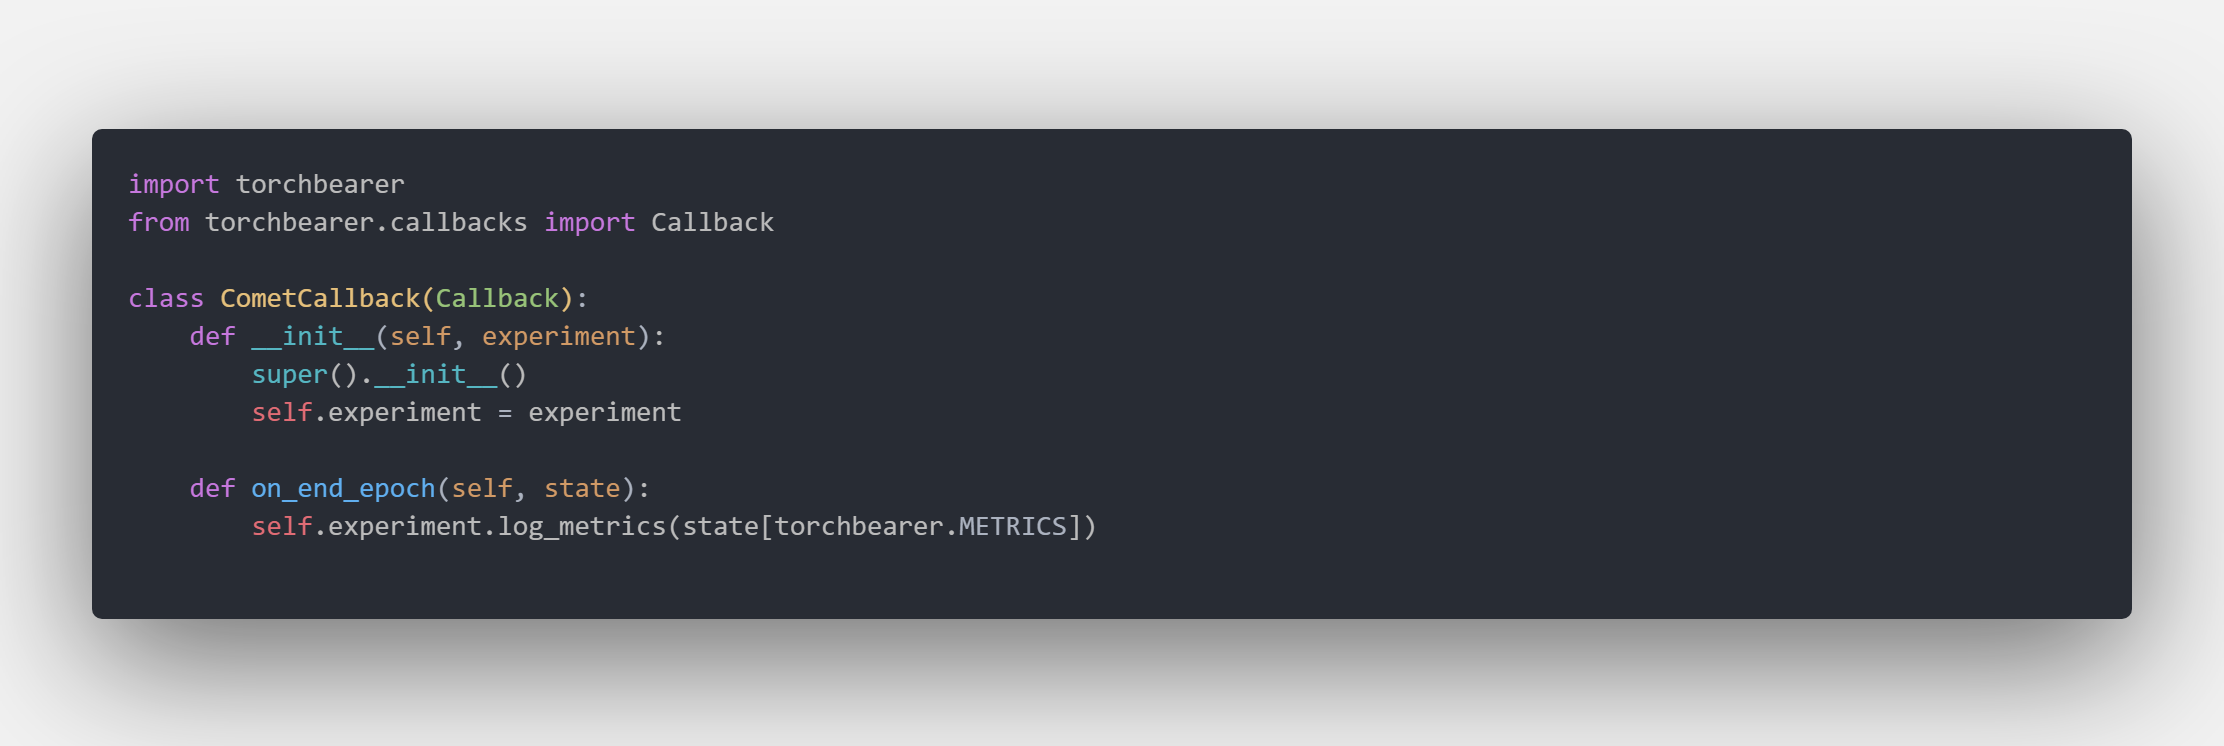
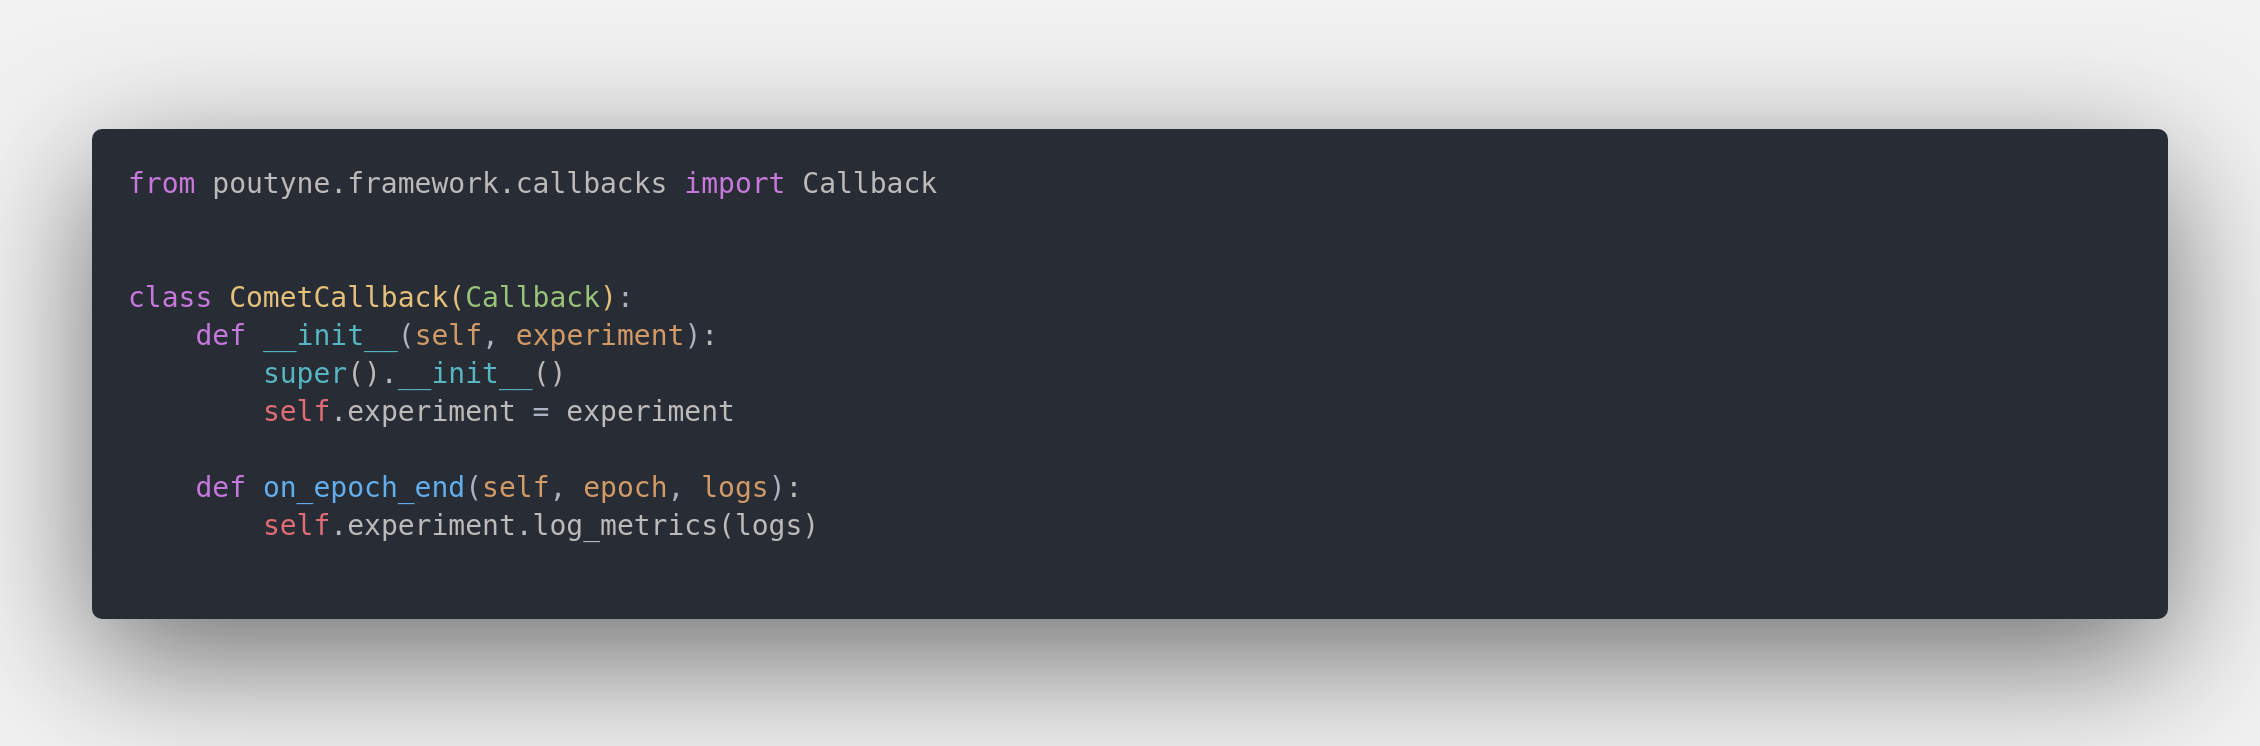
Revert "Merge branch 'develop' into poutyne"
This reverts commit 6c60d2e77d00040715043d6d79f4f1c8b9758718.

Changed region(s): [[0.0621, 0.37, 0.3103, 0.5858], [0.0621, 0.6166, 0.4964, 0.7399], [0.0621, 0.2158, 0.4033, 0.3083]]

diff --git a/data/__init__.py b/data/__init__.py
@@ -1,35 +1,32 @@
 import numpy as np
+from .MyDataset import MyDataset
 from torch.utils.data import DataLoader, random_split
 from logger import logging
 from torchvision.datasets.folder import ImageFolder
-from torchbearer.cv_utils import DatasetValidationSplitter
-
 
 def get_dataloaders(
-        root,
+        train_dir,
+        var_dir,
         train_transform=None,
         val_transform=None,
         split=(0.5, 0.5),
         batch_size=32,
         *args, **kwargs):
     """
-    This function returns train, val and test dataloaders.
+    This function returns the train, val and test dataloaders.
     """
     # create the datasets
-    ds = ImageFolder(root=root, transform=val_transform)
-    splitter = DatasetValidationSplitter(len(ds), val_split)
-    train_ds = splitter.get_train_dataset(ds)
-    train_ds.dataset.transform = train_transform
-    val_ds = splitter.get_val_dataset(ds)
-    test_ds = val_ds
-    if test_split is not None:
-        # let's further split the val dataset in val and test
-        splitter = DatasetValidationSplitter(len(val_ds), test_split)
-        val_ds = splitter.get_train_dataset(val_ds.dataset)
-        test_ds = splitter.get_val_dataset(val_ds.dataset)
+    train_ds = ImageFolder(root=train_dir, transform=train_transform)
+    val_ds = ImageFolder(root=var_dir, transform=val_transform)
+    # now we want to split the val_ds in validation and test
+    lengths = np.array(split) * len(val_ds)
+    lengths = lengths.astype(int)
+    left = len(val_ds) - lengths.sum()
+    # we need to add the different due to float approx to int
+    lengths[-1] += left
 
-    logging.info(
-        f'Train samples={len(train_ds)}, Validation samples={len(val_ds)}, Test samples={len(test_ds)}')
+    val_ds, test_ds = random_split(val_ds, lengths.tolist())
+    logging.info(f'Train samples={len(train_ds)}, Validation samples={len(val_ds)}, Test samples={len(test_ds)}')
 
     train_dl = DataLoader(train_ds, batch_size=batch_size, shuffle=True, *args, **kwargs)
     val_dl = DataLoader(val_ds, batch_size=batch_size, shuffle=False, *args, **kwargs)

diff --git a/main.py b/main.py
@@ -7,8 +7,8 @@ from data import get_dataloaders
 from data.transformation import train_transform, val_transform
 from models import MyCNN, resnet18
 from utils import device, show_dl
-from torchbearer import Trial
-from torchbearer.callbacks import CSVLogger, ModelCheckpoint, EarlyStopping, ReduceLROnPlateau
+from poutyne.framework import Model
+from poutyne.framework.callbacks import ReduceLROnPlateau, ModelCheckpoint, EarlyStopping
 from callbacks import CometCallback
 from logger import logging
 

diff --git a/callbacks/CometCallback.py b/callbacks/CometCallback.py
@@ -1,10 +1,10 @@
-import torchbearer
-from torchbearer.callbacks import Callback
+from poutyne.framework.callbacks import Callback
+
 
 class CometCallback(Callback):
     def __init__(self, experiment):
         super().__init__()
         self.experiment = experiment
 
-    def on_end_epoch(self, state):
-        self.experiment.log_metrics(state[torchbearer.METRICS])
+    def on_epoch_end(self, epoch, logs):
+        self.experiment.log_metrics(logs)

diff --git a/losses/__init__.py b/losses/__init__.py
@@ -4,7 +4,3 @@ import torch
 def my_loss(output, target):
     loss = torch.mean((output - target) ** 2)
     return loss
-
-# or just define a normal PyTorch loss
-def my_mse(y_pred, y_true):
-   return torch.mean((y_pred - y_true) ** 2)

diff --git a/utils.py b/utils.py
@@ -11,7 +11,7 @@ def show(img):
     npimg = img.numpy()
     plt.imshow(np.transpose(npimg, (1, 2, 0)), interpolation='nearest')
     plt.show()
-
+    
 
 def show_dataset(dataset, n=6):
     imgs = [dataset[i][0] for i in range(n)]

diff --git a/README.md b/README.md
@@ -2,13 +2,11 @@
 ### A clean and simple template to kick start your next dl project 🚀🚀
 *Francesco Saverio Zuppichini*
 
-**Update** *Switched from [poutyne](https://github.com/GRAAL-Research/poutyne) to [torchbearer](https://github.com/pytorchbearer/torchbearer). The old template can be found [here](https://github.com/FrancescoSaverioZuppichini/PyTorch-Deep-Learning-Template/tree/poutyne)*
-
-We present you a deep learning template based on Pytorch. This template aims to make it easier for you to start a new deep learning computer vision project with PyTorch. The main features are:
+In this article, we present you a deep learning template based on Pytorch. This template aims to make it easier for you to start a new deep learning computer vision project with PyTorch. The main features are:
 
 - modularity: we split each logic piece into a different python submodule
 - data-augmentation: we included [imgaug](https://imgaug.readthedocs.io/en/latest/)
-- ready to go: by using [torchbearer](https://github.com/pytorchbearer/torchbearer) a Keras-like framework you don't have to write any train loop.
+- ready to go: by using [poutyne](https://pypi.org/project/Poutyne/) a Keras-like framework you don't have to write any train loop.
 - [torchsummary](https://github.com/sksq96/pytorch-summary) to show a summary of your models
 - reduce the learning rate on a plateau
 - auto-saving the best model
@@ -37,7 +35,6 @@ The template is inside `./template`.
 │ └── val
 ├── logger.py // were we define our logger
 ├── losses // custom losses
-├── metrics // custom metrics
 ├── main.py
 ├── models // here we create our models
 │ ├── MyCNN.py
